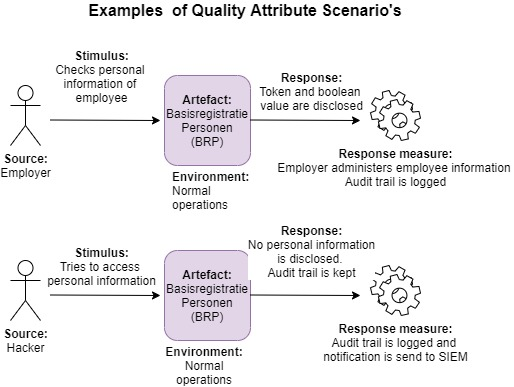
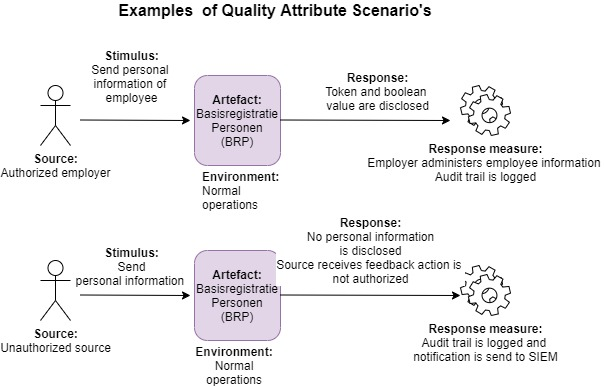
Updates from Overleaf

diff --git a/Master Thesis - Maarten Swaap/sections/implementation.tex b/Master Thesis - Maarten Swaap/sections/implementation.tex
@@ -7,15 +7,26 @@
 %\end{figure}
 %\includegraphics[width=12cm]{Decomposition of ASR and QAS_zoomed in on %ASR-1 and ASR-2_v2.jpg}\\
 \chapter{Implementation}\label{s:Implementation}
-Research question 3 focuses on patterns and tactics, in context of software architecture. Bass \etal \cite{Bass2015SoftwareAI} describes architectural patters as "Compositions of architectural elements and provide packaged strategies for solving some of the problems facing a system." This section contains examples of processes represented by views and contain patterns and tactics. Focusing on the quality attribute 'Confidentiality', which is the quality attribute that could mitigate the operational problems in section \ref{OP} The pattern of 'Zero-knowledge proof' and tactics of 'Data minimization' and 'Pseudonymization' mentioned by consulted experts as possible techniques to apply. By depicting different types of views on example processes, the examples are presented as possible basis for practical use. The tactics of Authentication' and 'Encryption' are more basic building blocks already applied and therefore explained more briefly.
 
-Section \ref{QI} discusses the quantified problem and argues logical reasoning will define how a solution could mitigate the operational problem mentioned in section \ref{OP}
-\section{Pattern - Zero-knowledge proof}
+\graphicspath{ {./images/} }
+\begin{figure}
+\centering
+\label{fig:Tactics}
+\includegraphics[width=14cm]{Tactics.jpg}\\
+\caption{Confidentiality tactics - next section handles examples in blue frame}
+\end{figure}
+
+Research question 3 focuses on patterns and tactics in context of software architecture which can be used to mitigate identity fraud. Bass \etal \cite{Bass2015SoftwareAI} describes architectural patters as "Compositions of architectural elements and provide packaged strategies for solving some of the problems facing a system." This section applies patterns and tactics based on examples of processes represented by views. Quality attribute 'Confidentiality' is identified as Quality attribute which could mitigate operation problems of section \ref{OP}. Based on input of consulted experts the methods of 'Zero-knowledge proof' and 'Data minimization' are example use-cases. 'Pseudonymization' is defined in GDPR Article 4(5) and Article 25 \cite{GDPR} and therefore deemed relevant to explicitly describe definition and possible solution. Depicting different types of views of example processes embedding these methodologies will make it concrete for practical use. The tactics of 'Authentication' and 'Encryption' are argued to implement or otherwise explain why it has not been implemented by Dutch governmental architectural standards \cite{NORA_PasToeOfLegUit}. These are standardized building blocks are important to have in place and explained briefly. 
+
+As discussed in Section \ref{QI} these solutions are not quantified and argued by logical reasoning defining mitigation of the operational problem of section \ref{OP} by a solution.
+
+
+\section{Zero-knowledge proof}
 By definition of Goldwasser \etal \cite{Goldwasser} "A zero-knowledge proof (ZKP) makes it possible to prove a statement is true while preserving confidentiality of secret information". 
-Xiaohui Yang and Wenjie Li \cite{YANG2020102050} state "Zero-knowledge proof (ZKP) is a cryptography technique, which means that the prover can convince the verifier that a certain statement is correct without providing the verifier with any additional information or leaking any information about the witness." Figure \ref{fig:ZKP_usecase} presents a schema on how this principle works. Figure \ref{fig:QAS01} presents two example Quality Attribute Scenarios (QAS) which describe desired system behaviour. The ZKProof Community reference \cite{2019:zkproof:community-reference-0.2} of Bennarroch \etal is intended to provide a reference for development of zero-knowledge proof by contribution of world-renowned cryptographers, practitioners and industry leaders.
-Reasoning why this methodology or pattern is a solution for the operational problem in section \ref{OP} is if there is no identity data to be shared or replicated, there will be no profiling or unauthorized correlation of identity data can be done. Without identity data it's not possible to commit identity fraud.
+Xiaohui Yang and Wenjie Li \cite{YANG2020102050} state "Zero-knowledge proof (ZKP) is a cryptography technique, which means that the prover can convince the verifier that a certain statement is correct without providing the verifier with any additional information or leaking any information about the witness." Figure \ref{fig:ZKP_usecase} presents a schema on how this principle works. Figure \ref{fig:QAS01} presents two example Quality Attribute Scenarios (QAS) which describe desired system behaviour of this example process. ZKProof Community reference \cite{2019:zkproof:community-reference-0.2} of Bennarroch \etal has been used as a source for creativity and is intended to provide a reference for development of zero-knowledge proof by contribution of world-renowned cryptographers, practitioners and industry leaders. Section \ref{OP} mentions the operational problems. If no identity data has to be shared or replicated profiling or unauthorized correlation of identity data will not be possible. Not having identity data at all will also make it impossible to commit identity fraud. 
+Zero-knowledge proof itself is a methodology which translates in a variety of possible technical implementations. This section contains an example of high-level scenario and use-cases depicted in figure \ref{fig:ZKP_usecase}. However, suitability of this methodology needs to be assessed per use-case and possible other application besides this scenario. 
 
-\subsection{Chain of use-cases described}
+\subsection{Use-case description}
 \graphicspath{ {./images/} }
 \begin{figure}
 \centering
@@ -32,28 +43,18 @@ Reasoning why this methodology or pattern is a solution for the operational prob
 \caption{Example of Quality attribute scenario's}
 \end{figure}
 
-
-Zero-knowledge proof itself is a methodology which translates in a variety of technical implementation possibilities. Suitability needs to be assessed per use-case, therefore this research contains an example with high-level scenarios and use-cases depicted in figure \ref{fig:ZKP_usecase}.
-
 This use-case contains three acting parties, namely the employee, employer and tax authorities (Belastingdienst).
-Firstly a citizen registers finishes it's registration of personal data at a municipality or non-residents database desk. After this process is finished the citizen receives a BSN, which serves as a UIN throughout all government administrations. The citizen starts working at an employer, fills in his personal information for the wage declaration, including the BSN (2a). The employer is responsible to administer personal information of its employee (2b) and administer and transfer wage declaration to the tax authorities (4). Based on the BSN in the wage declaration, the tax authority checks the personal identity data (5a). \par
-In the happy flow, all information off the employee is correct and wage declaration is processed correctly (5b). However, there are practical exceptions, where an employer administers an incorrect BSN or the set of personal information does not match that BSN. In this case, the wage declaration is processed incorrectly. Impact can be another citizen, with the wrongly entered BSN, being taxed for the wage of another citizen. Correcting this mistakes are costly for the government and intense for a citizen who could be negatively impacted because of a higher wage.
+A citizen registers finishes it's registration of personal data at a municipality or non-residents database desk. After this process is finished the citizen receives a BSN, which serves as a UIN throughout all government administrations (phase 1). The citizen starts working at an employer, fills in his personal information for the wage declaration, including the BSN (phase 2a). The employer is responsible to administer personal information of its employee (phase 2b) and administer and transfer wage declaration to the tax authorities (phase 4). Based on the BSN in the wage declaration, the tax authority checks the personal identity data (phase 5a). \par
+In the happy flow, all information off the employee is correct and wage declaration is processed correctly (phase 5b). However, there are practical exceptions, where an employer administers an incorrect BSN or the set of personal information does not match that BSN. In this case, the wage declaration is processed incorrectly. Impact can be another citizen, with the wrongly entered BSN, being taxed for the wage of another citizen. Correcting this mistakes are costly for the government and intense for a citizen who could be negatively impacted because of a higher wage and higher tax imposition.
 
-\subsection{Use-case 3: application of zero-knowledge proof}
-A possible solution would be to let the employer check the correctness of personal information when hiring a citizen. Section \ref{BRP} describes the BRP as the central database of personal identity data of citizens and could be used for this purpose. However, pushing information from the BRP to an employer is not legally allowed. One of the risks could be not acting in good faith which could result in scraping the database to commit fraud or unauthorized usage of personal data mentioned in section \ref{OP}. Zero-knowledge proof could be a pattern to resolve this problem by providing a check if the data the employer receives from an employee matches with a person in the BRP. Ideally, a Zero-knowledge proof will result in not saving personal information in an employer database. However, if this is mandatory by law it needs to been done or law needs to be changed.
+\subsection{Use-case phase 3: Adding to Zero-knowledge proof}
+Letting an employer check the authenticity of personal information when hiring a citizen could solve the described problem. Section \ref{BRP} describes the BRP as the central database of personal identity data of citizens and could be considered as a source. However, consulting the BRP by an employer is not legally allowed and one could argue it's not desirable in the future because of the risks employers not acting in good faith. Which could result in scraping the BRP database to commit fraud or unauthorized usage of personal data mentioned in section \ref{OP}. Zero-knowledge proof could be a method to resolve this problem by providing a check on personal information of an employee by the employer. Employer sends in information to a service (website or API/webservice) containing a set of personal information of the employee. Response will present a Boolean value True which will confirm personal information matches BRP data or False indicating employee needs to provide the correct personal information to the employee. Off course, authentication of the employer is needed as is encryption of website or API/webservice. Desired behaviour is described in Figure \ref{fig:QAS01}.
+
+This solution could be considered as an intermediate step implementing a form of Zero-knowledge proof. Ultimately, having a validation token provided by trusted parties and no personal information at all in an employer database would be an end-state situation for Zero-Knowledge proof. However, law mandates an employer to have a personal file containing personal information of its employee. Discussions and required changes on law are out of scope for this research meaning a solution within scope of current law is provided.
 \clearpage
 
-\section{Tactics - Quality attribute 'Confidentiality'}
-\graphicspath{ {./images/} }
-\begin{figure}
-\centering
-\label{fig:Tactics}
-\includegraphics[width=14cm]{Tactics.jpg}\\
-\caption{Confidentiality tactics - next section handles examples in blue frame}
-\end{figure}
-
-\subsection{Data minimization}
-Demanding parties of personal information who are legally permitted to consult the BRP need to search for a person of interest residing on an address. In this case, it can be assumed the personal information has to be shown of only this person of interest. A query which is too broad could give back results of multiple persons. Which could be considered a breach of privacy of those persons. Figure \ref{fig:Adhoc} illustrates a logical view on how a tactic of data minimization could be applied. Firstly, a possible scope of addresses is queried on the Basisadministratie Gebouwen (BAG) \cite{BAG}. The BAG contains almost all addresses within the Dutch territory. Secondly, the correct address is shown and can be selected from this query. If query is a specific statement and returns one result, this result can be selected automatically to support usability. Thirdly, based on the unique address ID from the BAG a list of resident is shown with a minimal set of information to assess if the results contain the person of interest.    
+\section{Data minimization}
+Demanding parties of personal information who are legally permitted to consult the BRP need to search for a person of interest residing on an address. In this case it can be assumed the personal information has to be shown of only this person of interest. A query which is too broad could give back results of multiple persons. Which could be considered a breach of privacy of those persons. As reasoned upon Section \ref{scope} a data breach could result in illegally obtaining personal information. Figure \ref{fig:Adhoc} illustrates a logical view on how a tactic of data minimization could be applied to mitigate this risk. A selection of possible addresses is queried on the Basisadministratie Gebouwen (BAG) \cite{BAG} which is a publicly accessible database (phase 1). The BAG contains almost all addresses within the Dutch territory. The correct address is selected from query output (phase 2). If query is a specific statement and returns one result, this result can be selected automatically to support usability. Thirdly, based on the unique address ID from the BAG a list of resident is shown with a minimal set of information to assess if the results contain the person of interest.    
 \graphicspath{ {./images/} }
 \begin{figure}
 \centering
@@ -62,19 +63,22 @@ Demanding parties of personal information who are legally permitted to consult t
 \caption{Logical view - example of data minimization in a process}
 \end{figure}
 
-\subsection{Pseudonymization - Polymorphic Identity or Polymorphic Pseudonym}
-When it's mandatory to share personal information, because it's for example mandatory by law, it's possible to provide this information as a pseudonym. GDPR \cite{GDPR} defines this method as a possibility to mitigate unwanted disclosure of personal information. 
+\section{Pseudonymization - Polymorphic Identity or Polymorphic Pseudonym}
+GDPR \cite{GDPR} defines ‘pseudonymisation’: "means the processing of personal data in such a manner that the personal data can no longer be attributed to a specific data subject without the use of additional information, provided that such additional information is kept separately and is subject to technical and organisational measures to ensure that the personal data are not attributed to an identified or identifiable natural person". If personal information needs to be shared in a way the content of the personal information is not relevant and does not needs to be revealed to a third party it can be provided as a pseudonym.   containing personal information, which can  
+
 This technique is already implemented and proven it can work by Erik Verheul \cite{VerheuleID}.
 
-\subsection{Authentication}
+\section{Supporting tactics}
+
+\subsection{Authentication} \label{authentication}
 A commonly used method for authentication purposes is usage of a certificate. For parties who communicate with on or on behalf of the Dutch government the government issues PKIoverheid (PKIO) certificates. These certificates are used for Authentication, Electronic signatures and encryption. \cite{Logius_PKIO}
 
-\subsection{Encryption - Transfer of data is encrypted with TLS 1.2 or higher}
+\subsection{Encryption - Transfer of data is encrypted with TLS 1.2 or higher} \label{encryption}
 A broadly implemented standard. The Dutch government has a reference architecture NORA (Nederlandse Overheid Referentie Architecture) \cite{NORA} which states this standard needs to be applied or otherwise explained why it has not been implemented \cite{NORA_PasToeOfLegUit}. On the part of TLS its clear version 1.2 or higher is accepted, but version 1.3 is preferred \cite{NORA_TLS}. 
 
 \section{Trade-offs and concerns}
 Trade-offs and possible gaps in these solutions are composed by logical reasoning of researcher. 
-\todo{Scrapbook, needs refinement}
+\todo{Format made, contents need to be filled according to notes}
 
 \begin{longtable}[c]{|p{3cm}|p{3cm}|p{3cm}|p{3cm}|p{3cm}|p{3cm}|}
  \caption{ASRs and possible trade-offs per tactic\label{tab:Trade-offs}}\\

diff --git a/Master Thesis - Maarten Swaap/sections/background.tex b/Master Thesis - Maarten Swaap/sections/background.tex
@@ -9,7 +9,7 @@ The World Bank \cite{WorldBank_UIN} positions UIN or equivalent ID numbers in th
 However, the benefit of fast and easy exchange of identity related information, is also highly susceptible to misuse. Identity Fraud and Theft leans heavily on the benefit of ‘Data matching and interoperability’ of the UIN. A second form of misuse that leans on this benefit is Unauthorized data correlation. \par
 The Dutch governmental audit service, Auditdienst Rijk (ADR) defined gaps and possible improvements in usage of this number\cite{ADR}. This report discusses one of the advantages of BSN being a unique identifier for many different government and non-government organizations. Carrying out their administration more efficiently. Another obtained objective with the introducing of BSN was to prevent identity fraud. Facts and figures in the report of ADR are showing Identity Fraud is growing issue over the last years. A illegally obtained BSN be misused to impact the privacy of citizens negatively while the BSN has advantages within the Dutch government. The same BSN is re-used for different purposes. For example, a bank uses the same BSN of a citizen as a hospital. If the hospital would have a data breach this BSN could be re-used when committing identity fraud, for example at a bank. However, solely having the BSN without other personal information makes identity fraud difficult. At the phase of designing this research the assumption was identity theft was clearly defined and BSN was attribute of personal information to focus on. However, after initiating the research it became clear that a BSN is only a part of the problem and a clear definition of identity theft is needed to prevent different viewpoints of the problem for solution discussions. Together with quantifying and scoping to a operational problem will facilitate discussion on possible and appropriate solutions in information systems. \par
 
-\section{Scope}
+\section{Scope} \label{scope}
 To correctly frame the problem and possible solutions it's needed to have clear definitions and scope of this problem. Besides a UIN more attributes of personal identity are linked to an individual person. The 'UK national fraud and cybercrime reporting centre' states a name, date of birth and current or previous addresses could be used to commit identity fraud.\cite{Action_fraud}. This identity data can be obtained in a data breach, for example a breach via commercial parties or (semi-)government. Recent examples are Booking.com \cite{Booking_databreach} or the Dutch GGD \cite{GGD_databreach}.
 
 This section will describe how to frame the position of a UIN among other data within in this domain.
@@ -17,7 +17,7 @@ De Vries \etal \cite{Vries2007IdentiteitsfraudeEA} split up identity fraud in tw
 Figure \ref{fig:ID_domain} decomposes the domain of 'Identity data' described by De Vries \etal. This research will narrow it's scope further to 'Formal functional identity data'. 'Profile data' is a value applications of 'Identity data' mainly because a UIN can be used in facilitating combination of data-sets and unauthorized profiling. Definitions provided by De Vries \etal: 
 \graphicspath{ {./images/} }
 \begin{figure}
-\includegraphics[width=10cm]{Identity data defintions and domain-Overview.jpg}\\
+\includegraphics[width=10cm]{Identity data definitions and domain-Overview.jpg}\\
 \caption{Domain and scope of Identity Data - De Vries \etal \cite{Vries2007IdentiteitsfraudeEA}}
 \label{fig:ID_domain}
 \end{figure}
